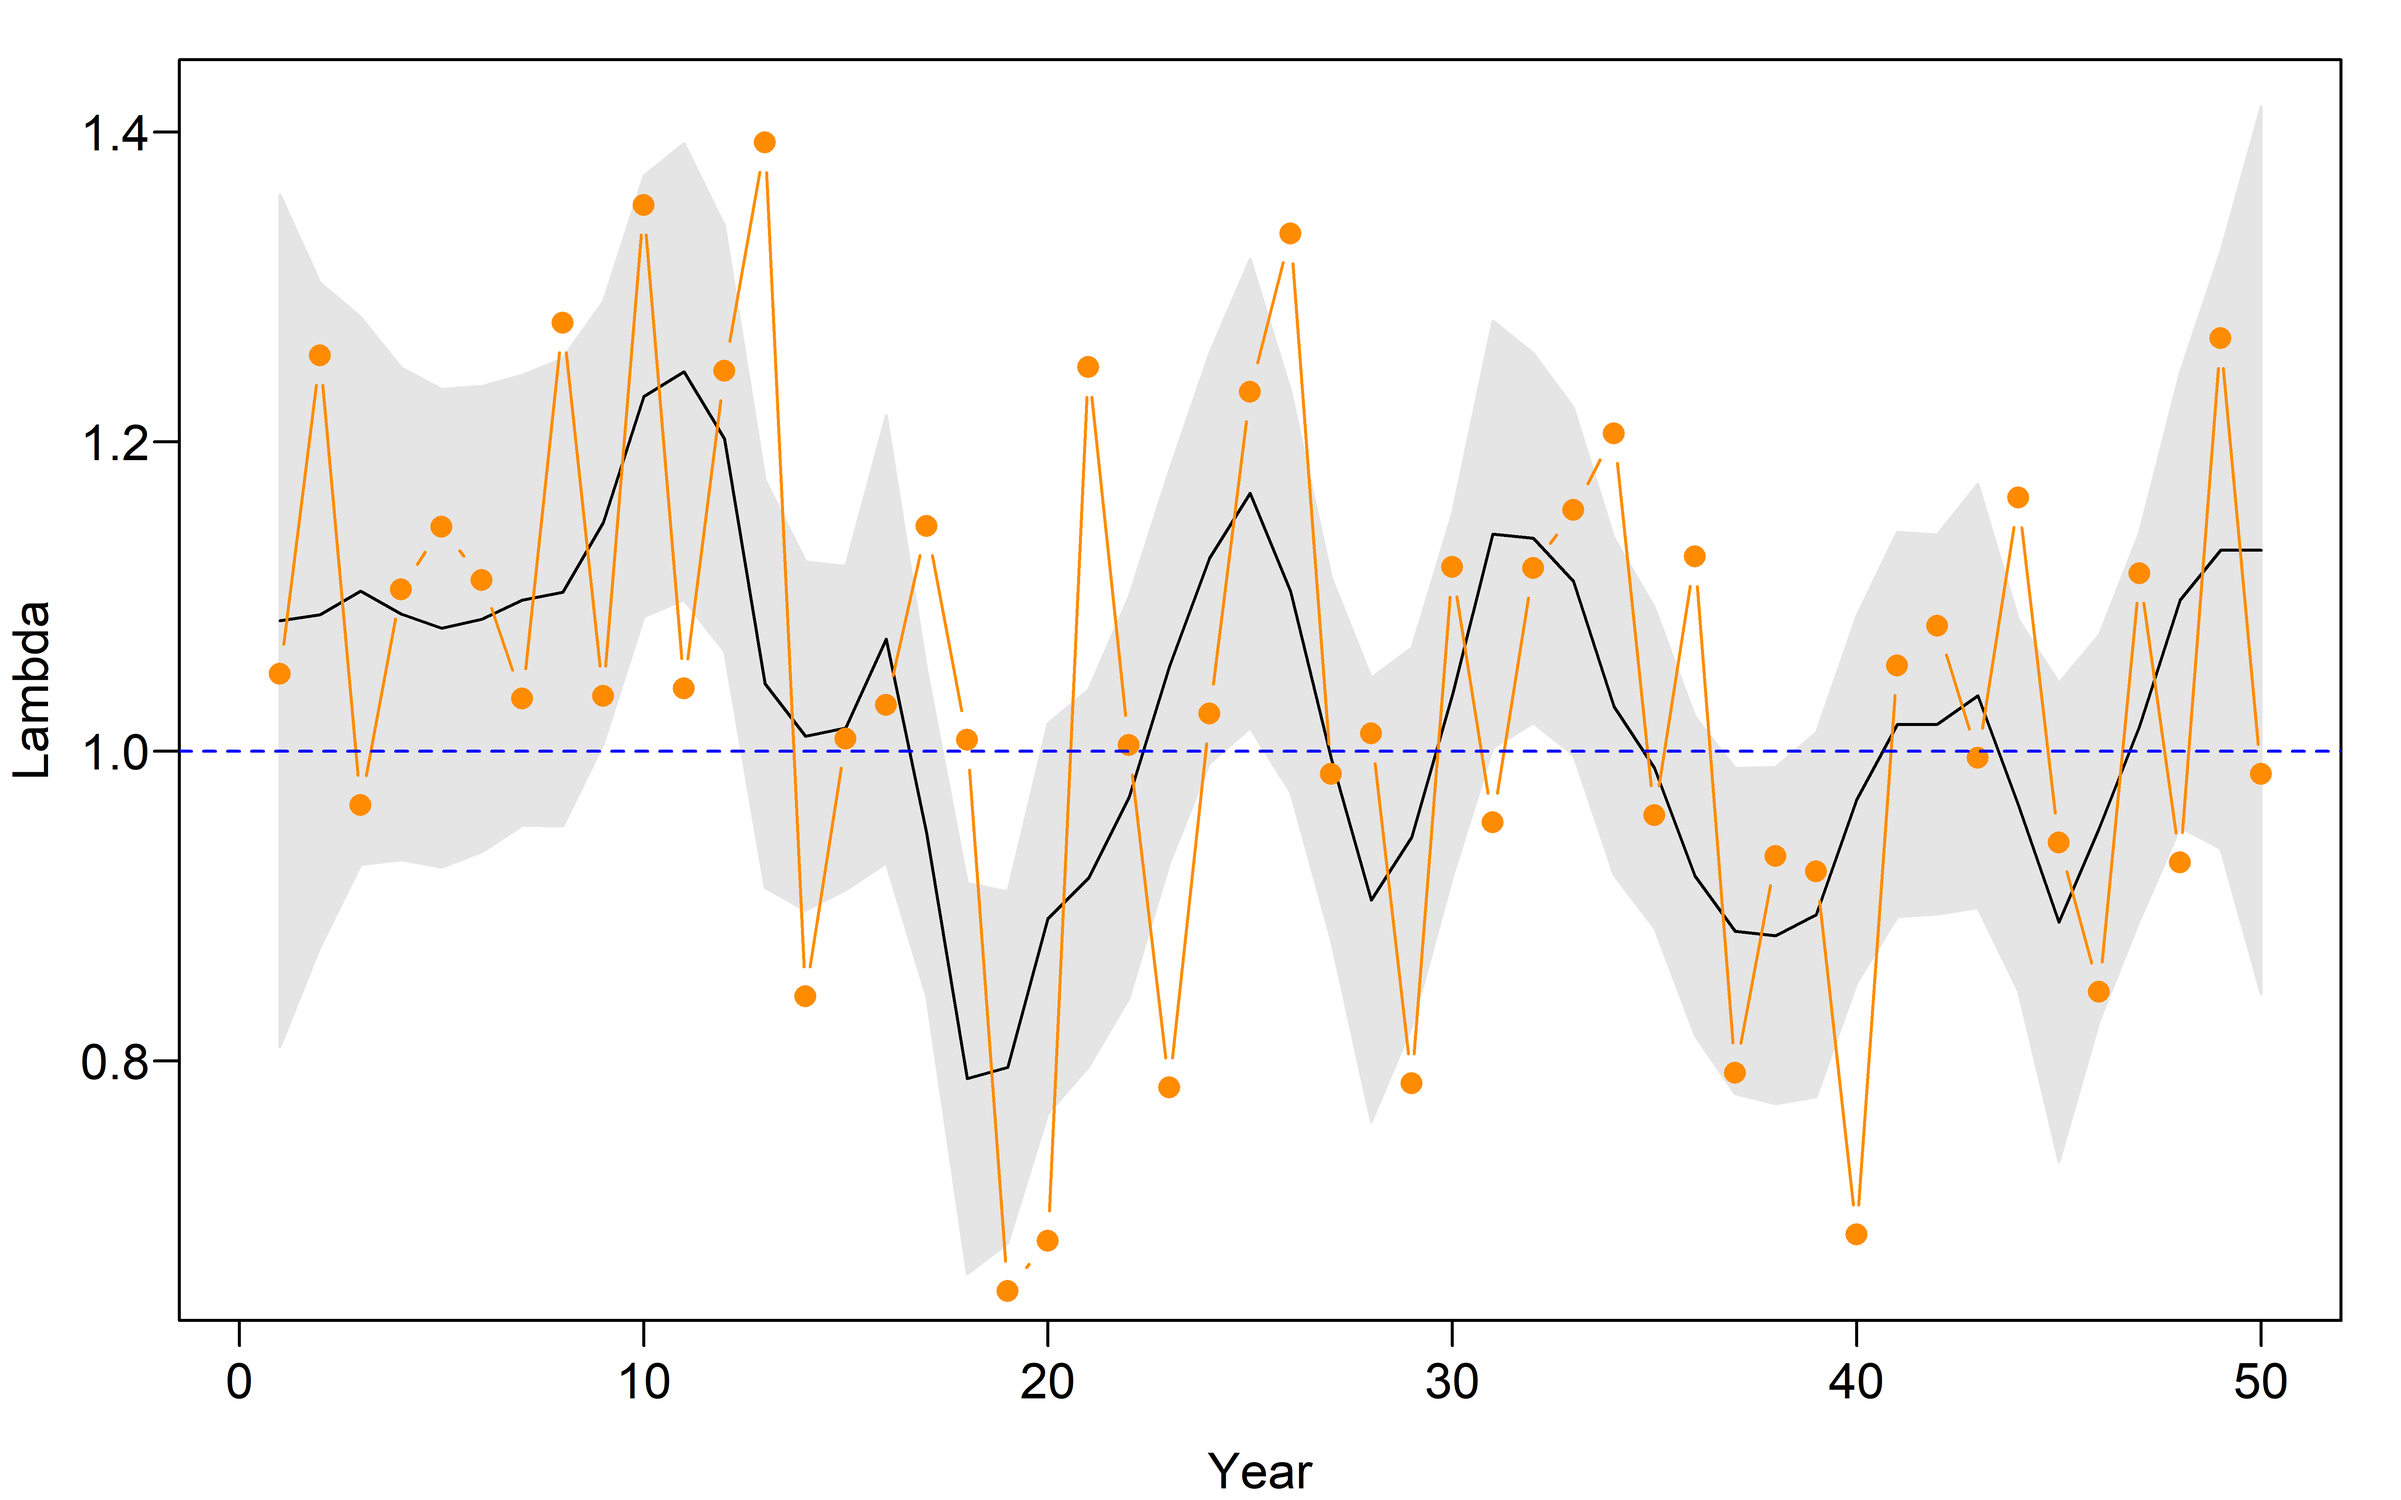
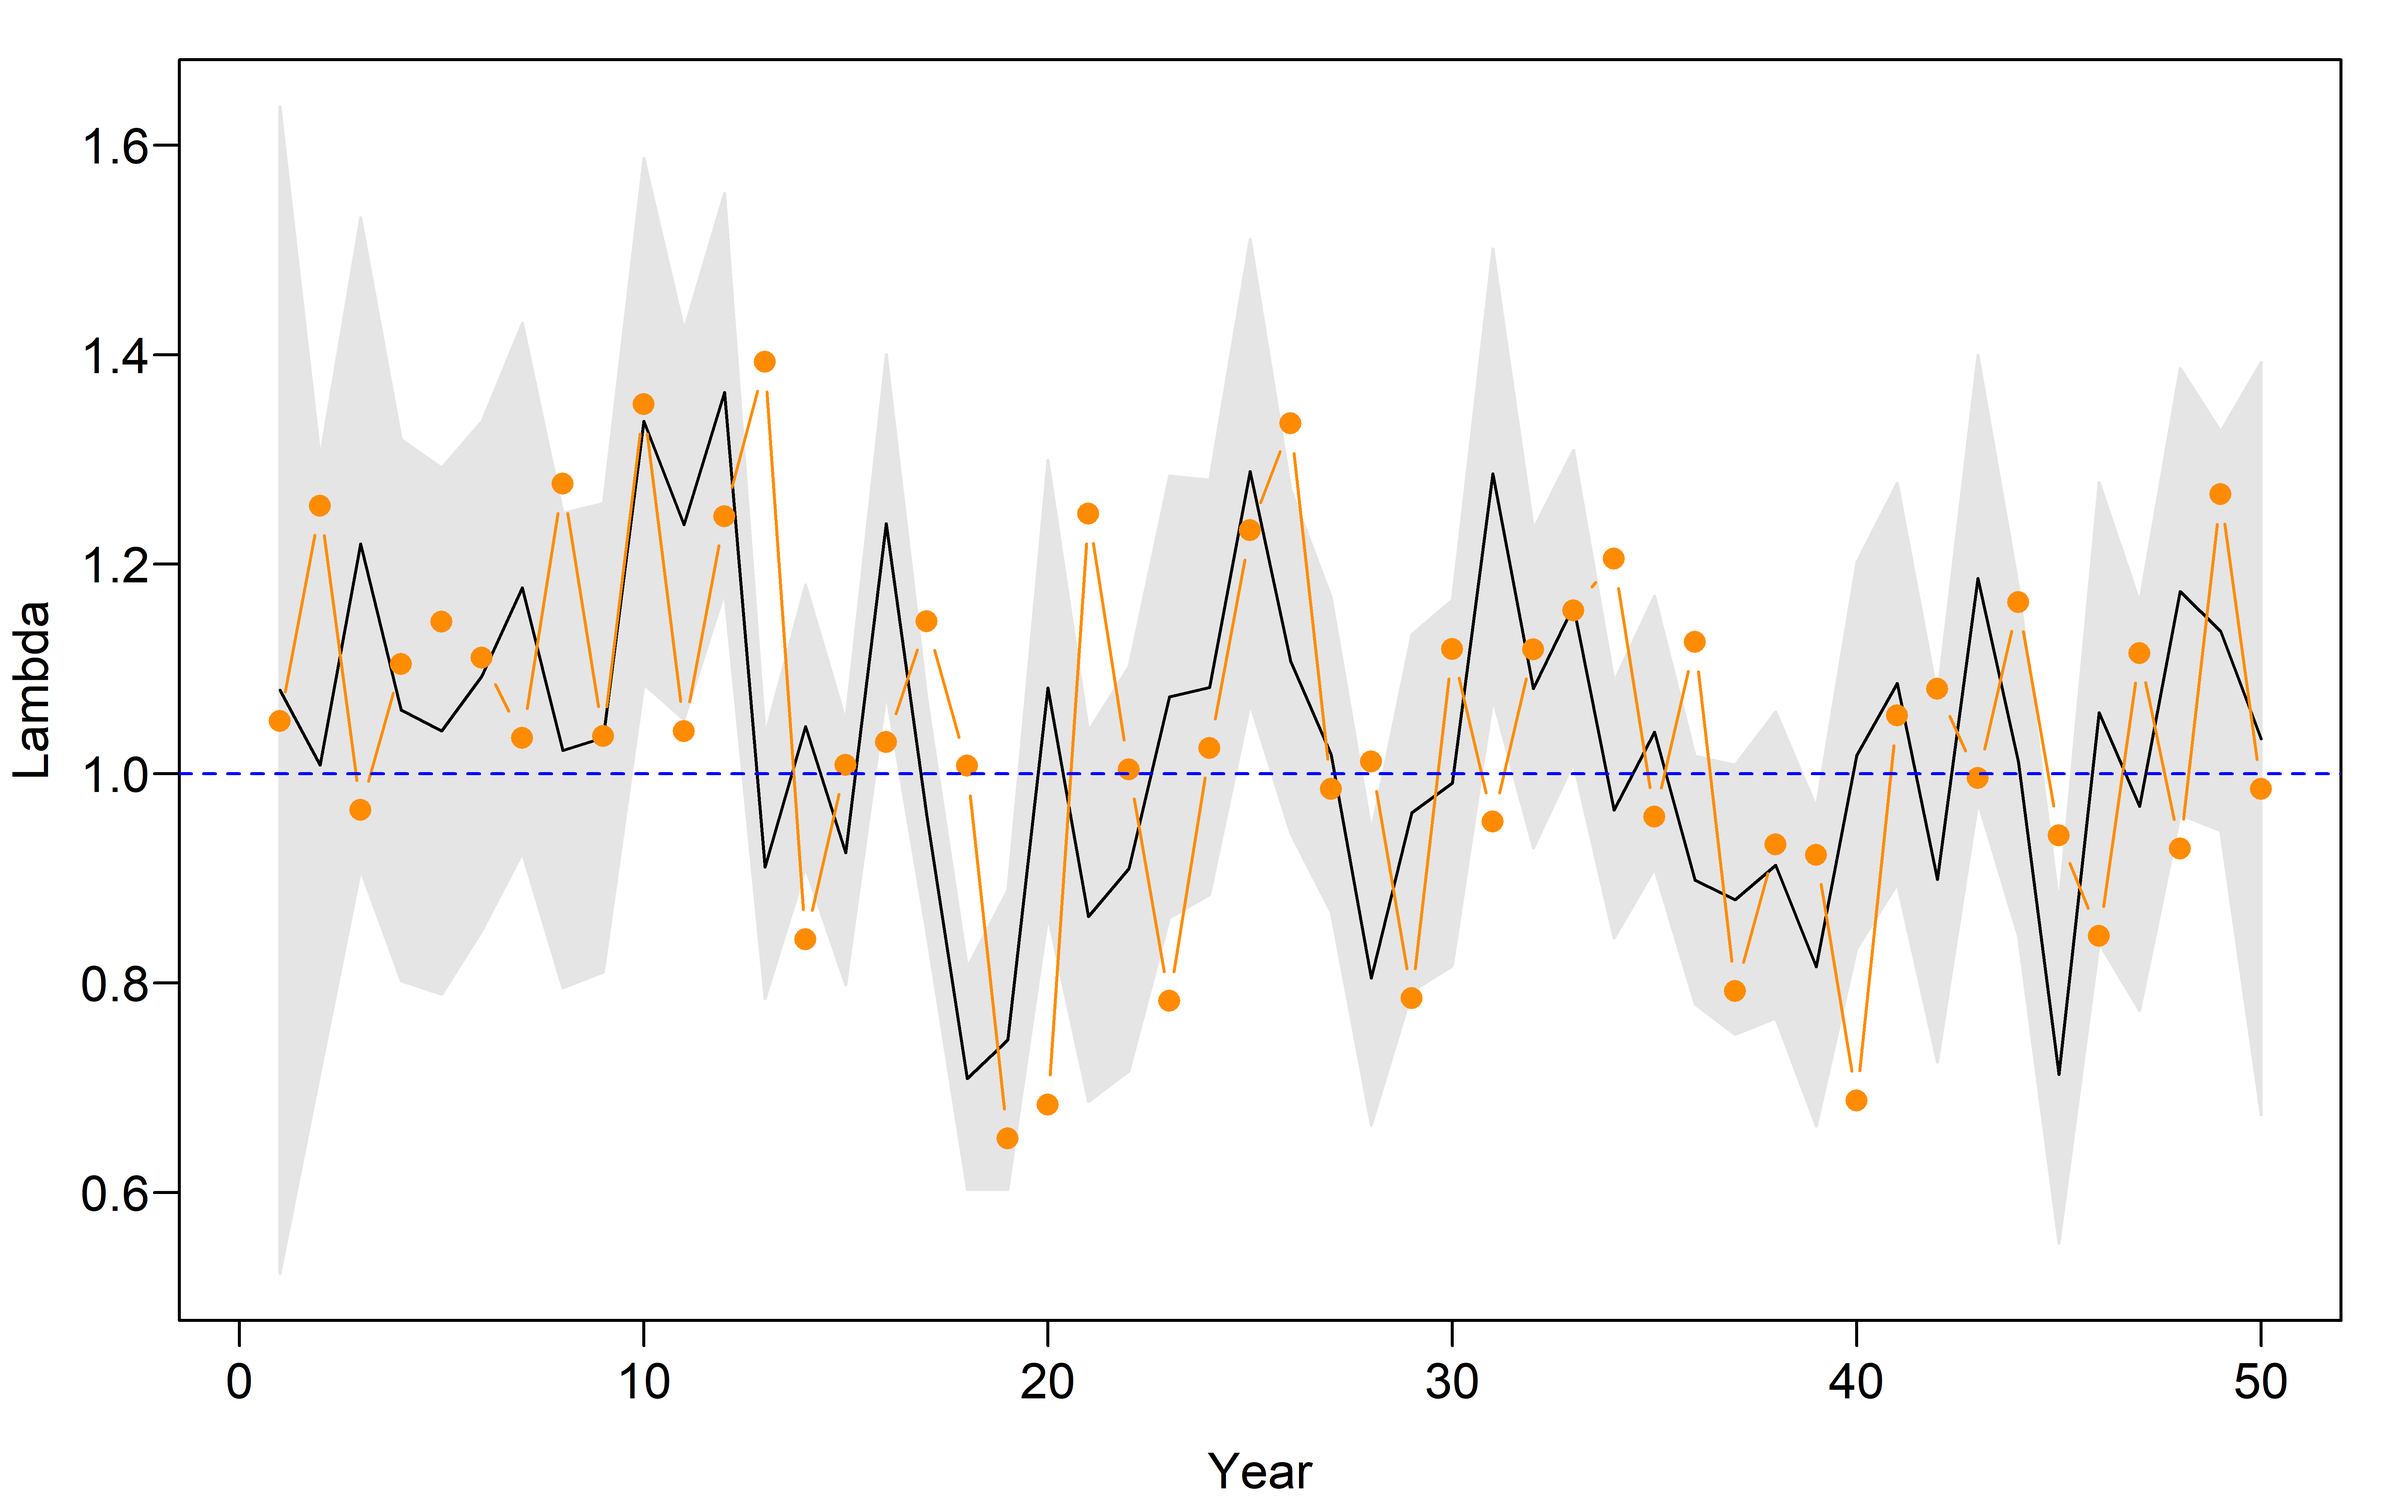
fix stupid

diff --git a/week 4/state_space_exponential.cpp b/week 4/state_space_exponential.cpp
@@ -22,7 +22,6 @@ Type objective_function<Type>::operator() ()
   
   // Parameters
   PARAMETER( logB0 );          //initial biomass measurement
-
   PARAMETER( log_sigmaP );     //process sd
   PARAMETER( log_sigmaO );     //measurement sd 
   PARAMETER( mu_lambda); 
@@ -30,16 +29,14 @@ Type objective_function<Type>::operator() ()
 
   // Objective function
   Type jnll = 0;
-  
-  // Probability of random coefficients--lambda_t --> vector of latent states
-  jnll -= dnorm( lambda_t(0), mu_lambda, exp(log_sigmaP), true ); //condition on the mu_lambda estimate
-  
+
   vector<Type> biomass_t(Nyears); //create a vector to store biomass values
   biomass_t(0) = exp(logB0); //condition on B0
-
+  // Probability of random coefficients--lambda_t --> vector of latent states
   //sweep downstream through time-series | B0, mu_lambda
   for( int t=1; t<Nyears; t++ ){
-    jnll -= dnorm( lambda_t(t), lambda_t(t-1), exp(log_sigmaP), true ); 
+    jnll -= dnorm( lambda_t(t), mu_lambda, exp(log_sigmaP), true ); 
+    //jnll -= dnorm( lambda_t(t), lambda_t(t-1), exp(log_sigmaP), true ); 
     biomass_t(t) = lambda_t(t-1)*biomass_t(t-1); 
   }
   
